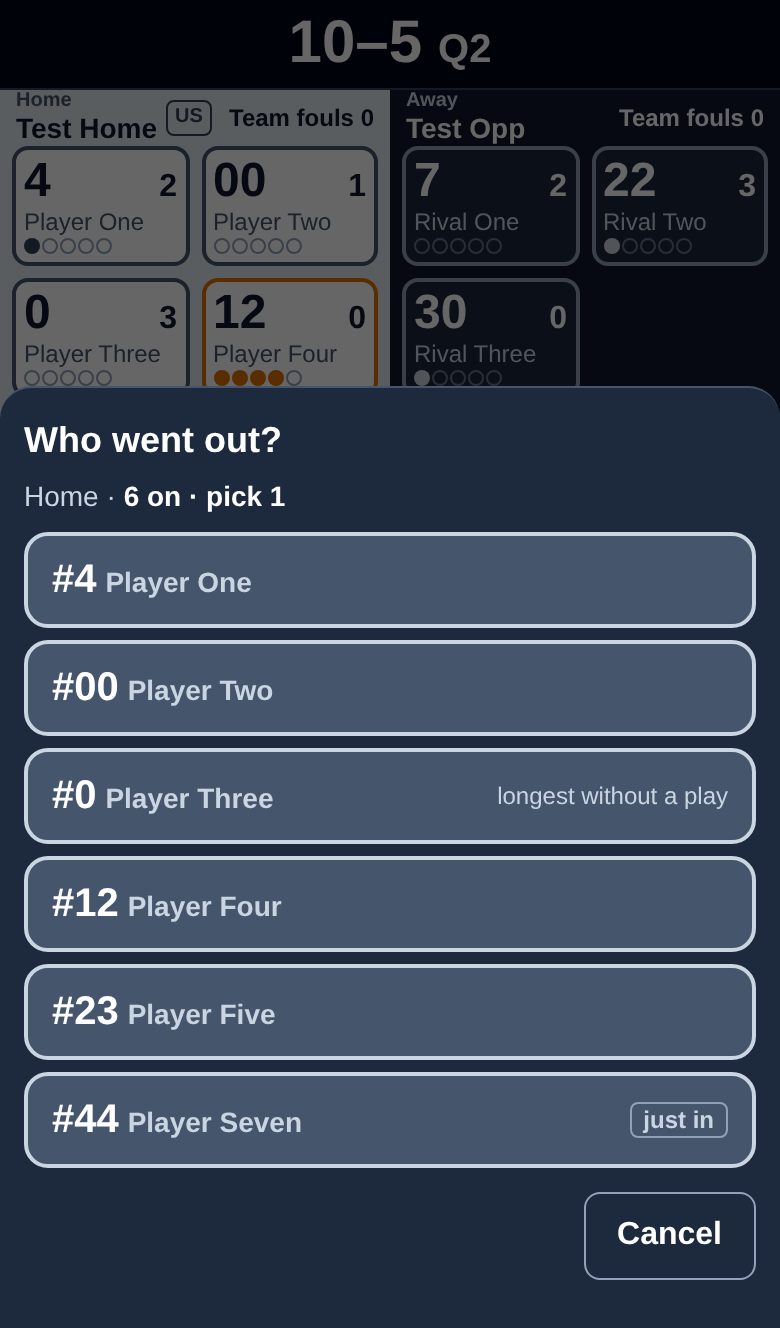
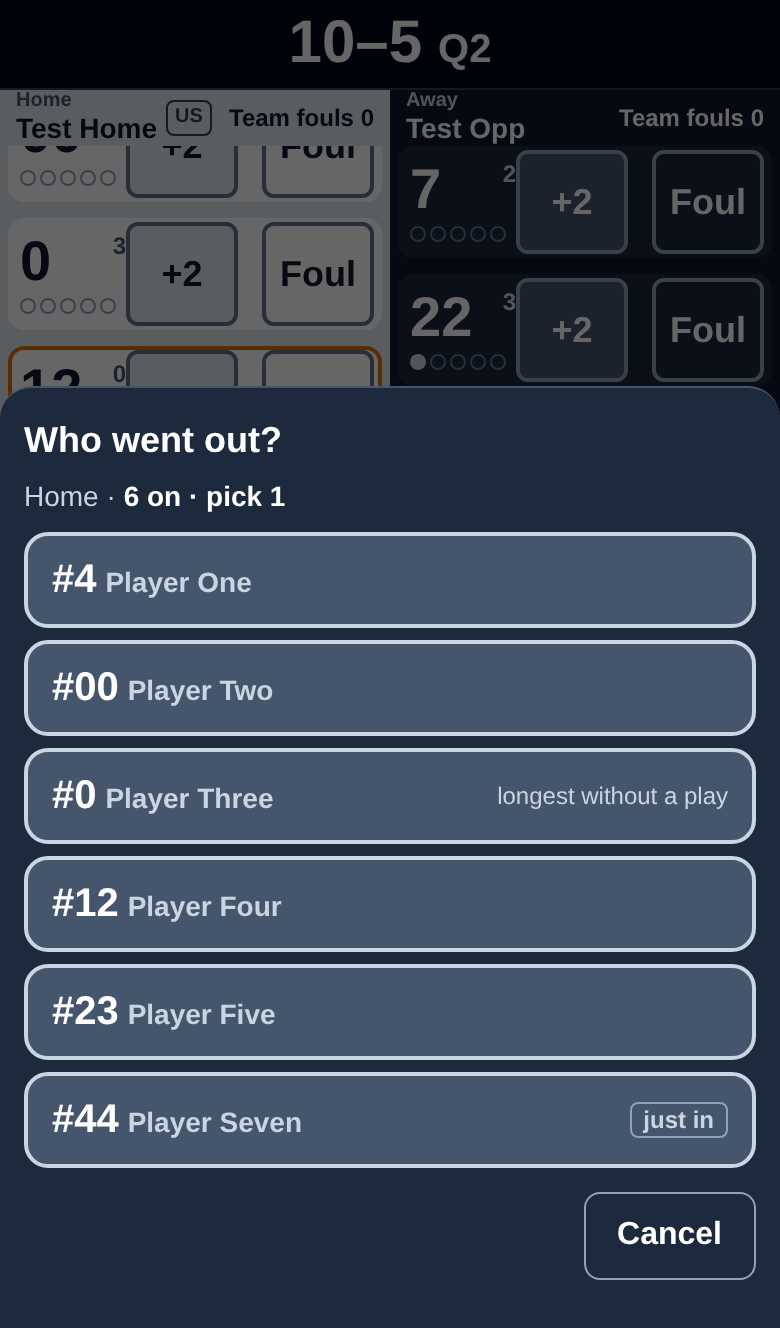
Docs: How-to, colors and backlog for one-tap rows
How-to rewritten from cards to rows; howto-content.test.ts wording pins
updated (the Bench card and card-layout assertions replaced by Tech-button
and row assertions; the section title 'A player with no card' is now
'A player with no row'). colors.md gains blue's row-flash job, the row
styles and a measured contrast table; no TONE change was needed (the +2
border clears 3:1 against every row fill). Backlog gets the spec's Not in
1.1 items with triggers. Screenshots regenerated.

Changed region(s): [[0.0, 0.0926, 0.9846, 0.3087]]

diff --git a/src/ui/howto-content.ts b/src/ui/howto-content.ts
@@ -25,20 +25,20 @@ export const HOWTO_SECTIONS: HowtoSection[] = [
     id: 'play',
     title: 'Record a play',
     body: [
-      'Home is on the left with light cards, Away on the right with dark ones, and a small US tag marks your team. To keep your team on the left home or away, turn on ⋯ → Experiments → Our team on the left. A team name you entered shows at the top of its half, under Home or Away.',
-      'Tap any player, on either team, then the play: +2, +3, a foul or a free throw. The line above the bar names the team, for example #4 (Home) +2.',
+      'Home is on the left with light rows, Away on the right with dark ones, and a small US tag marks your team. To keep your team on the left home or away, turn on ⋯ → Experiments → Our team on the left. A team name you entered shows at the top of its half, under Home or Away.',
+      'Each player is a row with their number, so there are no names on the screen. +2 and Foul are one tap on the row. Tap the number, small gray points beside it, for everything else: +3, free throws, a tech, fixes and subs. The list scrolls when a team has more rows than fit. The line above the bar names the team, for example #4 (Home) +2.',
     ],
   },
   {
     id: 'free-throws',
     title: 'Free throws',
-    body: ['Tap the player, then FT made or FT missed; the sheet stays open for the second shot. Tap Done when finished.'],
+    body: ['Tap the number, then FT made or FT missed; the sheet stays open for the second shot. Tap Done when finished.'],
   },
   {
     id: 'no-card',
-    title: 'A player with no card',
+    title: 'A player with no row',
     body: [
-      'Each half ends with a + Play card. Tap it, pick the play, and Whose number? asks who: type the number to credit that player (a new number joins that team), or tap No number to give it to the team only.',
+      'Under each half\'s rows is a dashed + Play button. Tap it, pick the play, and Whose number? asks who: type the number to credit that player (a new number joins that team), or tap No number to give it to the team only.',
       'Stop asking this game does the same as No number and skips the question for that team from then on.',
     ],
   },
@@ -46,8 +46,8 @@ export const HOWTO_SECTIONS: HowtoSection[] = [
     id: 'subs',
     title: 'Subs',
     body: [
-      "Every card looks the same: the five on the floor come first, and the cards after them are a shade grayer (Home) or darker (Away). The first five on the roster start, and the Sub button beside + Play reads Starters until that team's first play if you want to change them, then Sub. Subbing is optional: a bench player who makes a play goes on the floor on their own, and nothing waits on you. Their card swaps with the top-five player who has gone longest without a play, once you stop tapping for a few seconds, so cards never move mid-tap.",
-      "When #22 checks in at the table, tap #22, then #22 checks in at the foot of their sheet, then who went out. The Sub button opens the same sheet: Who went out? when more than five are on (longest without a play marks the player who has gone longest without one: only a hint, never acted on), Who came in? when fewer, as after a foul-out, and Who's on the floor? for a line change, ended with Done. Subs change no score or count, and Undo takes one back.",
+      "Every row looks the same: the five on the floor come first, and the rows after them are a shade grayer (Home) or darker (Away), after a small gap. The first five on the roster start, and the Sub button beside + Play reads Starters until that team's first play if you want to change them, then Sub. Subbing is optional: a bench player who makes a play goes on the floor on their own, and nothing waits on you. Two seconds after you stop tapping or scrolling, their row moves up into the top five, trading places with the player who has gone longest without a play, the moved rows flash blue and the list scrolls back to the top. For half a second after that, +2 and Foul on that half ignore taps, so a finger already on its way never lands on the row that slid in; the number always works.",
+      "When #22 checks in at the table, tap the #22 number, then #22 checks in at the foot of their sheet, then who went out. The Sub button opens the same sheet: Who went out? when more than five are on (longest without a play marks the player who has gone longest without one: only a hint, never acted on), Who came in? when fewer, as after a foul-out, and Who's on the floor? for a line change, ended with Done. Subs change no score or count, and Undo takes one back.",
     ],
     image: { src: '/howto/subs.png', alt: 'Who went out? for Home after #44 scored from the bench: six on the floor, #44 marked just in and #0, whose last play is the oldest, with the hint longest without a play; Cancel below.' },
   },
@@ -55,8 +55,8 @@ export const HOWTO_SECTIONS: HowtoSection[] = [
     id: 'timeouts',
     title: 'Timeouts and bench techs',
     body: [
-      "Each team's timeouts are the buttons under its Bench card: Full: 3 means three full ones left, and OT: 1 shows in overtime. One tap takes one. At 0 the button is grayed; a tap asks first, and Take one anyway records it.",
-      "Bench and coach techs go on that team's Bench / coach tech card, which counts them.",
+      "Each team's timeouts are the buttons under its Tech button: Full: 3 means three full ones left, and OT: 1 shows in overtime. One tap takes one. At 0 the button is grayed; a tap asks first, and Take one anyway records it.",
+      "Bench and coach techs go on that team's Tech button, beside + Play, which shows the count in amber once there is one, for example Tech 2.",
     ],
   },
   {
@@ -94,10 +94,10 @@ export const HOWTO_SECTIONS: HowtoSection[] = [
     id: 'screen',
     title: 'Reading the screen',
     body: [
-      "Each half's header shows that team's fouls for the quarter, amber from 4 (in overtime the count includes Q4). In the bonus, a badge in the strip at the top names the team that shoots, for example Home shoots, over its half. Foul dots turn amber at 4 and red at OUT, and an out player's card is grayed: tapping it asks first.",
+      "Each half's header shows that team's fouls for the quarter, amber from 4 (in overtime the count includes Q4). In the bonus, a badge in the strip at the top names the team that shoots, for example Home shoots, over its half. Each row's foul dots turn amber at 4, with an amber ring around the row, and at 5 the row shows a red ring and OUT, with its number grayed. On an out row, +2 and Foul have dashed borders and record nothing: they open the player's sheet, which asks first. A tap that lands twice within a moment records once. The first time you reach this screen on a phone, a tip on the line above the bar reads: Tap a number for 3s, free throws and fixes.",
       `Running score, under ⋯, shows your team only. ${MARK_LEGEND}`,
     ],
-    image: { src: '/howto/reading-the-screen.png', alt: 'The live screen in Q1 with both rosters: Home, marked US, on the left with team fouls 5, #12 at four amber foul dots, and #31 and #44 in the shaded cards after the top five; Away on the right with its own numbered cards, points and fouls; Away shoots; under each half, + Play beside the Sub button, the Bench card and the timeout buttons.' },
+    image: { src: '/howto/reading-the-screen.png', alt: 'The live screen in Q1 with both rosters: Home, marked US, on the left with team fouls 5, one row per player showing the number, small gray points, foul dots and two buttons, +2 and Foul, with #12 at four amber foul dots inside an amber ring, and the first shaded row after the top five, #31, fading out at the foot of the scrolling list; Away on the right with its own rows; Away shoots; under each half, + Play beside the Sub and Tech buttons, then the timeout buttons.' },
   },
   {
     id: 'wrong',

diff --git a/src/ui/howto-content.test.ts b/src/ui/howto-content.test.ts
@@ -12,35 +12,51 @@ const text = (t: string) => byTitle(t).body.join(' ');
 describe('how-to content', () => {
   it('has the thirteen sections in order', () =>
     expect(HOWTO_SECTIONS.map((s) => s.title)).toEqual([
-      'What this is', 'Before tip-off', 'Record a play', 'Free throws', 'A player with no card', 'Subs',
+      'What this is', 'Before tip-off', 'Record a play', 'Free throws', 'A player with no row', 'Subs',
       'Timeouts and bench techs', 'Mistakes', 'End of quarter', 'Overtime and end of game', 'Export',
       'Reading the screen', "If something's wrong",
     ]));
   it('keeps each section short', () => HOWTO_SECTIONS.forEach((s) => expect(s.body.length).toBeLessThanOrEqual(2)));
   it('gives every section a distinct id', () =>
     expect(new Set(HOWTO_SECTIONS.map((s) => s.id)).size).toBe(HOWTO_SECTIONS.length));
-  it('puts bench techs on the Bench card', () => expect(text('Timeouts and bench techs')).toMatch(/Bench \/ coach tech card/));
-  it('puts each team\'s timeouts under its Bench card, with the guard at zero', () => {
-    expect(text('Timeouts and bench techs')).toMatch(/buttons under its Bench card/);
+  // 1.1 spec "The list and the swap": the bench-tech button reads Tech, beside + Play, with an amber count.
+  it('puts bench techs on the Tech button beside + Play', () => expect(text('Timeouts and bench techs')).toMatch(/Tech button, beside \+ Play.*amber.*Tech 2/));
+  it('puts each team\'s timeouts under its Tech button, with the guard at zero', () => {
+    expect(text('Timeouts and bench techs')).toMatch(/buttons under its Tech button/);
     expect(text('Timeouts and bench techs')).toMatch(/Full: 3.*OT: 1/);
     expect(text('Timeouts and bench techs')).toMatch(/At 0 .*Take one anyway/);
   });
   it('lays out Home and Away and the US tag', () => {
-    expect(text('Record a play')).toMatch(/Home is on the left with light cards, Away on the right with dark ones/);
+    expect(text('Record a play')).toMatch(/Home is on the left with light rows, Away on the right with dark ones/);
     expect(text('Record a play')).toMatch(/US tag/);
-    expect(text('Record a play')).toMatch(/Tap any player, on either team/);
   });
+  // 1.1 spec "Decided by the owner" 1-3 and the Constraints list.
+  it('explains one-tap rows: +2 and Foul, the number for the rest, the scrolling list', () => {
+    const t = text('Record a play');
+    expect(t).toMatch(/Each player is a row with their number.*no names/);
+    expect(t).toMatch(/\+2 and Foul are one tap on the row/);
+    expect(t).toMatch(/Tap the number.*\+3, free throws, a tech, fixes and subs/);
+    expect(t).toMatch(/list scrolls/);
+  });
+  it('says the 2 s move-up, the flash, the scroll back and the half-second guard', () => {
+    const t = text('Subs');
+    expect(t).toMatch(/Two seconds after you stop tapping or scrolling.*moves up into the top five/);
+    expect(t).toMatch(/flash blue and the list scrolls back to the top/);
+    expect(t).toMatch(/half a second.*\+2 and Foul on that half ignore taps/);
+  });
+  it('gives the first-use tip verbatim', () =>
+    expect(text('Reading the screen')).toContain('Tap a number for 3s, free throws and fixes.'));
   it('explains + Play and Whose number?', () => {
-    const t = text('A player with no card');
+    const t = text('A player with no row');
     for (const words of ['+ Play', 'Whose number?', 'No number', 'Stop asking this game', 'joins that team']) expect(t).toContain(words);
   });
   it('covers the floor and bench, Starters, the sub row and the three questions', () => {
     const t = text('Subs');
-    expect(t).toMatch(/Every card looks the same: the five on the floor come first, and the cards after them are a shade grayer \(Home\) or darker \(Away\)/);
+    expect(t).toMatch(/Every row looks the same: the five on the floor come first, and the rows after them are a shade grayer \(Home\) or darker \(Away\)/);
     expect(t).toMatch(/Starters/);
     expect(t).toMatch(/until that team's first play[^.]*, then Sub\./);
     expect(t).toMatch(/Subbing is optional: a bench player who makes a play goes on the floor/);
-    expect(t).toMatch(/tap #22, then #22 checks in/);
+    expect(t).toMatch(/tap the #22 number, then #22 checks in/);
     for (const q of ['Who went out?', 'Who came in?', "Who's on the floor?"]) expect(t).toContain(q);
     expect(t).toMatch(/longest without a play/);
     expect(t).toMatch(/only a hint/);

diff --git a/docs/colors.md b/docs/colors.md
@@ -10,21 +10,46 @@ when adding to the interface:
 |---|---|---|
 | **Amber** | Caution: something to look at, never "tap here" | a player at 4 fouls, the bonus, team fouls near the bonus, bench techs, a check that doesn't match (and the Book cell sheet's "check now 2 over" line), a file not saved yet, Not saving, the timeout clock's last half |
 | **Red** | Out, or ends something for good | an out player (and the Book cell sheet's out line), End Q4 / OT (can end the game), Discard when the game is not exported, the timeout clock's Time |
-| **Blue** (`sky`) | The action to take, links, selection, focus | End Q1–Q3, Check, Undo, Redo, Home/Away chosen (Setup, Book), the Book tab chosen, focused fields |
+| **Blue** (`sky`) | The action to take, links, selection, focus | End Q1–Q3, Check, Undo, Redo, Home/Away chosen (Setup, Book), the Book tab chosen, focused fields, a row just recorded or moved (sky-100 fill on Home, sky-900 on Away, for 400 ms after a row tap and 1 s after a swap; the fill only, never the ring) |
 | **White fill** | The main button of a screen or sheet | Start game, Save, Done, Book CSV, Plays CSV |
 | **Green** | Done and fine | Matched, Fixed, saved files |
-| **Gray** (`slate`) | Everything else: data, ordinary buttons, neutral state | the cards (one style, outlines slate-600 on Home and slate-400 on Away; the cards after the top five are one fill step closer to the half's background: grayer on Home (slate-100 on white), darker on Away), the Sub button, the sub sheet's "just in" tag and "longest without a play" hint, the Demo strip, the small Home/Away tag over a team name in a half header, a player's first three fouls, the bar |
+| **Gray** (`slate`) | Everything else: data, ordinary buttons, neutral state | the player rows (one style; each row's +2 is filled, slate-200 with a slate-500 border on Home and slate-600 with a slate-400 border on Away, and its Foul is the word outlined, same border, transparent fill; the rows after the top five are one fill step closer to the half's background: grayer on Home (slate-100 on white), darker on Away; a player's points are small gray text, slate-600 on Home and slate-300 on Away), the Sub button, the sub sheet's "just in" tag and "longest without a play" hint, the Demo strip, the small Home/Away tag over a team name in a half header, a player's first three fouls, the bar |
 
-Home cards are light (white) and Away cards dark, so the state colors have two sets of shades,
-each kept at 3:1 or better for borders and dots and 4.5:1 for text:
+Home rows are light (white) and Away rows dark, so the state colors have two sets of shades,
+each kept at 3:1 or better for borders, rings and dots and 4.5:1 for text. A row's state is an
+inset 2 px ring (4 fouls amber, out red) and its dots. While a row flashes (the blue job above)
+the ring takes a flash shade so it keeps 3:1 on the flash fill:
 
-| Card | Warn border and dots (4 fouls; Bench card with techs) | Out | Warn text (team fouls near the bonus, tech count) |
+| Row | Warn ring and dots (4 fouls; Tech button with techs) | Out | Warn text (team fouls near the bonus, tech count) |
 |---|---|---|---|
-| Dark (Away) | amber-400 | red-500 border and dots, red-400 OUT | amber-300 |
-| Light (Home) | amber-600 (amber-700 on the cards after the top five and on the Bench card: amber-600 measured 2.92:1 on slate-100) | red-600 border, dots and OUT | amber-800 |
+| Dark (Away) | amber-400 | red-500 ring and dots, red-400 OUT; red-400 ring while flashing | amber-300 |
+| Light (Home) | amber-600 (amber-700 on the rows after the top five, on the Tech button and while flashing: amber-600 measured 2.92:1 on slate-100 and 2.78:1 on sky-100) | red-600 ring, dots and OUT | amber-800 |
 
-A warned card's number, name and points keep the card's ordinary text color (slate-900 on a
-light card, white on a dark one); only its border and dots turn amber.
+A warned row's number and points keep the row's ordinary text colors; only its ring and dots turn
+amber. An out row's number and points are grayed, and its +2 and Foul have dashed borders: they
+open the player's sheet and record nothing.
 
 A status shown on a button (the amber check chip for a quarter that doesn't match) is still a
 state color: the color says what is true, and the button shape says it can be tapped.
+
+## Contrast of the 1.1 rows
+
+Measured 2026-11-24 with the WCAG 2.x formula from Tailwind 4's oklch values (one-off script,
+not kept; no automated contrast test, by the 1.1 design). Targets: 3:1 for borders, rings and
+dots, 4.5:1 for text. Row fills: Home card white, rest slate-100, flash sky-100; Away card
+slate-800, rest #172033, flash sky-900.
+
+| Pair | Home (light) | Away (dark) |
+|---|---|---|
+| +2 and Foul border on card / rest / flash | slate-500: 4.77 / 4.35 / 4.15 | slate-400: 5.58 / 6.19 / 3.60 |
+| +2 border on its own fill | slate-500 on slate-200: 3.87 | slate-400 on slate-600: 2.88 |
+| +2 fill against card / rest / flash | slate-200: 1.23 / 1.12 / 1.07 | slate-600: 1.94 / 2.15 / 1.25 |
+| Amber ring on card / rest / flash | amber-600 3.19 / amber-700 4.61 / amber-700 4.40 | amber-400: 8.54 / 9.47 / 5.51 |
+| Red ring on card / rest / flash | red-600: 4.76 / 4.35 / 4.15 | red-500 3.84 / 4.26, red-400 on flash 3.27 (red-500 on flash would be 2.48) |
+| Points on card / rest / flash | slate-600: 7.56 / 6.90 / 6.58 | slate-300: 9.87 / 10.96 / 6.38 |
+
+Two rows of that table read under 3:1 and neither is a failure. The Away +2 border on its own
+fill (2.88) is not the button's boundary: the boundary against the row is the border, 3.60 to
+6.19 on Away and 4.15 to 4.77 on Home, which clears 3:1 on every row fill, so the shade stays.
+The fills alone (1.07 to 2.15) are shape, never the boundary. The lowest pass is red-400 on the
+Away flash fill at 3.27, which is why the flashing out ring is red-400 and not red-500.

diff --git a/CHANGELOG.md b/CHANGELOG.md
@@ -5,6 +5,13 @@ All notable changes to Bench Book are listed here, in the
 
 ## [Unreleased]
 
+- One-tap rows on the live screen: each player is a row with their number (no names), a small gray points figure, foul dots, and two buttons, **+2** (filled) and **Foul** (outlined). One tap records the play, the same event as the player's sheet. Tap the number for +3, free throws, a tech, fixes and subs; the sheet is unchanged. Rows are 56 px tall whatever the roster size, and the list scrolls inside its half with a fade at the foot.
+- A player at 4 fouls gets an amber ring around the row, and an out player a red ring with OUT; the out row's +2 and Foul are dashed and open the sheet instead of recording.
+- The activity swap now waits 2 seconds (was 8) after you stop tapping or scrolling. The moved rows flash blue, the half scrolls back to the top (unless you scrolled it by hand in the last 5 seconds; with reduced motion it jumps), and a hidden status line names who moved up.
+- Tap guards: the same row button tapped twice within 0.4 s records once, and for half a second after a swap that half's +2 and Foul ignore taps, so a finger on its way never lands on the row that slid in.
+- The bench-tech button is now **Tech**, beside + Play and Sub, with the count in amber; timeout buttons are 44 px tall.
+- A one-time tip on the live screen: "Tap a number for 3s, free throws and fixes." The How-to and its screenshots describe the rows.
+
 ## [1.0.1] - 2026-11-24
 
 - Timeout clock: the phone buzzes when the time left reaches half (30 s on a full, 15 s on a 30) and again at 0, and the clock closes itself 10 seconds after 0. It works on any screen, not only Live. Buzzing needs Android; iPhone browsers don't allow a web app to vibrate, so there the clock is silent.

diff --git a/docs/backlog.md b/docs/backlog.md
@@ -103,6 +103,22 @@ they were first aimed at.
   alone for 1.1 ("it's solid"). Trigger: after 1.1 ships, or a real game where a foul count was
   misread.
 
+## After 1.1: from the one-tap rows design (2026-11-24)
+
+Left out of 1.1 on purpose; each waits for its trigger.
+
+- **A free-throw strip** that stays open and closes on the next play (about 11 taps a game, the
+  popup's Done). It changes the owner's "free throws stay a popup" call, so it waits for the owner.
+  Trigger: the owner reopens that call, or the Usage CSV shows free throws as the biggest tap cost.
+- **Shorter rows on short screens.** Rows stay 56 px whatever the roster. Trigger: more than 2
+  scroll-then-tap plays per game in the Usage CSV.
+- **Padding against Android's back-swipe** on the Away half's right edge, where +2 and Foul sit.
+  Trigger: a misfired back gesture at a game.
+- **Log taps within 1 s of a swap**, ignored or not, to see the guard's cost. Trigger: an undo
+  right after a swap.
+- **Names on rows** as an option (about two rows of view lost). Trigger: a scorer who cannot
+  work from numbers alone.
+
 ## Recorded, not planned
 
 - The quarter check compares team fouls too. Trigger: a second real game with a missed foul.
